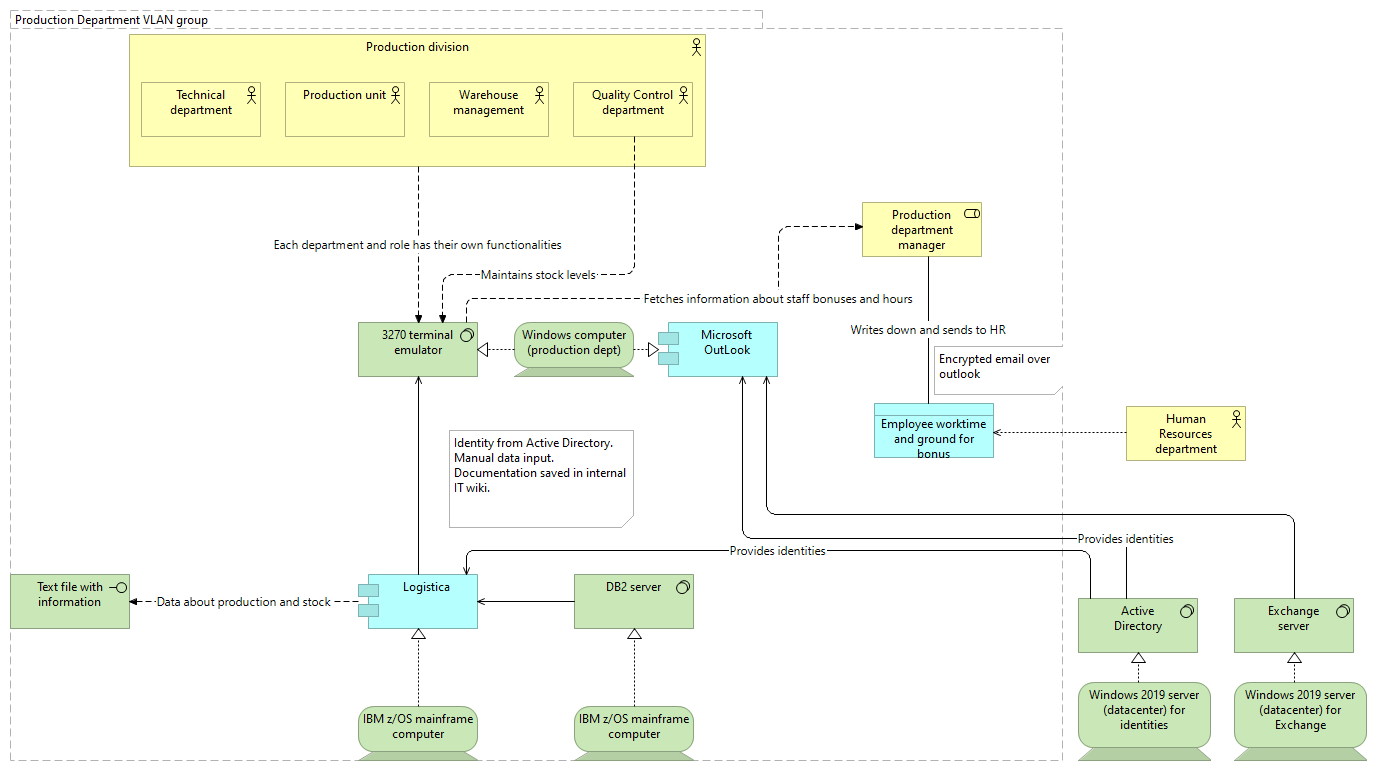
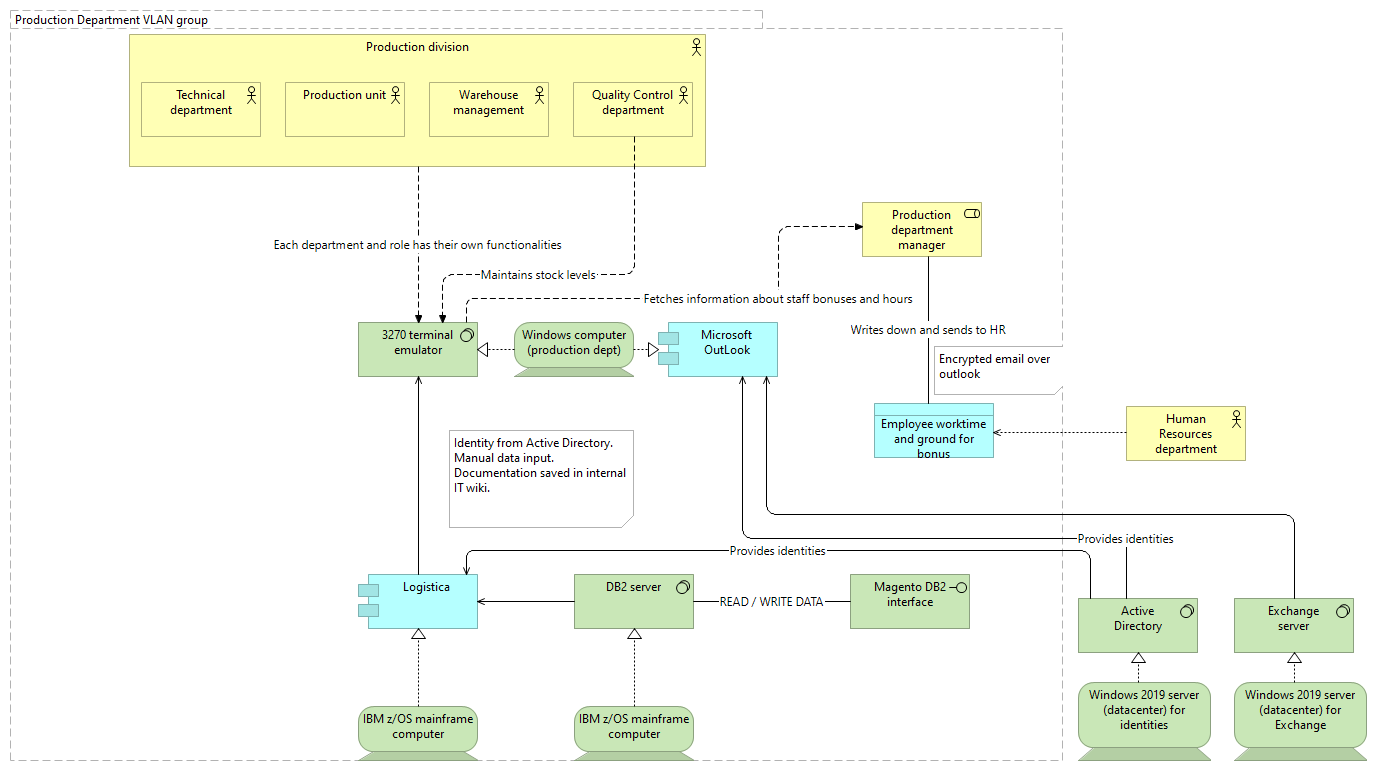
fix in production view

Changed region(s): [[0.0, 0.7471, 0.2498, 0.8405], [0.5309, 0.7471, 0.7182, 0.8405]]

diff --git a/42f59c99-faf0-4d5c-b5a2-6ce0e822152d/elements/model.html b/42f59c99-faf0-4d5c-b5a2-6ce0e822152d/elements/model.html
@@ -908,6 +908,8 @@
 										dataRelationships.push({id:"880ba3f8-e004-42d9-9495-450dc1d8de8c", type:"AssociationRelationship", name:decodeURL(""), documentation:decodeURL(""), sourceid:"33da5b6f-22ff-42f0-9f77-b07a86a58537", targetid:"59ff8b16-c0ab-454f-b24b-004cd41c210a"});
 									dataFoldersContent.push({folderid:"955d4044-8bf8-4ae3-9c84-40e61952b7c3", contentid:"6b01ab1b-19b0-4c0a-895a-7b029ed19157", contenttype:"AssociationRelationship"});
 										dataRelationships.push({id:"6b01ab1b-19b0-4c0a-895a-7b029ed19157", type:"AssociationRelationship", name:decodeURL(""), documentation:decodeURL(""), sourceid:"59ff8b16-c0ab-454f-b24b-004cd41c210a", targetid:"65df45d8-c2ff-49cd-92e1-d349806a058a"});
+									dataFoldersContent.push({folderid:"955d4044-8bf8-4ae3-9c84-40e61952b7c3", contentid:"33df5cbe-fddb-40e4-b108-82902529e3b8", contenttype:"AssociationRelationship"});
+										dataRelationships.push({id:"33df5cbe-fddb-40e4-b108-82902529e3b8", type:"AssociationRelationship", name:decodeURL("READ+%2F+WRITE+DATA"), documentation:decodeURL(""), sourceid:"8a8ed20e-e6ac-4b42-8c3b-9861fd410242", targetid:"fec1fed3-5d73-4d53-8432-c2533d64ecf4"});
 
 								dataFoldersContent.push({folderid:"42f59c99-faf0-4d5c-b5a2-6ce0e822152d", contentid:"4a6e2f0c-0590-4777-98ec-1a9138846fde", contenttype:"Folder"});
 								dataFolders.push({id:"4a6e2f0c-0590-4777-98ec-1a9138846fde", type:"Folder", name:decodeURL("Views"), documentation:decodeURL("")});
@@ -1261,12 +1263,12 @@
 															dataViewsContent.push({viewid:"933c4f14-98d1-495f-aee3-469fe40aac66", contentid:"81432dea-9eab-4f59-862a-13fd391b8e67", contenttype:"DiagramModelArchimateObject"});
 															dataViewsContent.push({viewid:"933c4f14-98d1-495f-aee3-469fe40aac66", contentid:"dcacca14-e508-4ae1-b093-6840698e1ee9", contenttype:"DiagramModelArchimateObject"});
 															dataViewsContent.push({viewid:"933c4f14-98d1-495f-aee3-469fe40aac66", contentid:"dfb4384d-b46d-4941-8d6b-29fcf529cf43", contenttype:"DiagramModelArchimateObject"});
+															dataViewsContent.push({viewid:"933c4f14-98d1-495f-aee3-469fe40aac66", contentid:"f619aa5a-9ad6-4f0f-97a2-aab8c8b5be0b", contenttype:"DiagramModelArchimateObject"});
 													
 													dataViewsContent.push({viewid:"933c4f14-98d1-495f-aee3-469fe40aac66", contentid:"d1d9eaef-0c90-40a5-8732-1cff1408583c", contenttype:"DiagramModelArchimateObject"});
 													dataViewsContent.push({viewid:"933c4f14-98d1-495f-aee3-469fe40aac66", contentid:"23c7f86b-a999-4ec1-aafe-8fbb5d2e7d2e", contenttype:"DiagramModelArchimateObject"});
 													dataViewsContent.push({viewid:"933c4f14-98d1-495f-aee3-469fe40aac66", contentid:"2bb88446-891f-43e0-8e31-bb473af64595", contenttype:"DiagramModelArchimateObject"});
 													dataViewsContent.push({viewid:"933c4f14-98d1-495f-aee3-469fe40aac66", contentid:"a39bd550-de7f-471e-bb26-ad53c332d8c2", contenttype:"DiagramModelArchimateObject"});
-													dataViewsContent.push({viewid:"933c4f14-98d1-495f-aee3-469fe40aac66", contentid:"c91e611d-0750-4afb-8948-b6d13ac7c01d", contenttype:"DiagramModelArchimateObject"});
 													dataViewsContent.push({viewid:"933c4f14-98d1-495f-aee3-469fe40aac66", contentid:"c4cd3ec1-0fd7-4754-9bbd-6a038e0961a9", contenttype:"DiagramModelArchimateObject"});
 															dataViewsContent.push({viewid:"933c4f14-98d1-495f-aee3-469fe40aac66", contentid:"759f46b8-9319-49cb-bf8c-3dd647ff12ae", contenttype:"DiagramModelArchimateObject"});
 															dataViewsContent.push({viewid:"933c4f14-98d1-495f-aee3-469fe40aac66", contentid:"ba2167b4-1092-4502-ad9c-665380835b7e", contenttype:"DiagramModelArchimateObject"});
@@ -1286,8 +1288,9 @@
 
 																					dataViewsContent.push({viewid:"933c4f14-98d1-495f-aee3-469fe40aac66", contentid:"b95069d5-3713-402e-bc4d-68b943fbf7d8", contenttype:"DiagramModelArchimateConnection"});
 
+																					dataViewsContent.push({viewid:"933c4f14-98d1-495f-aee3-469fe40aac66", contentid:"aca26f76-11f1-4ca8-916d-09bc42167e7d", contenttype:"DiagramModelArchimateConnection"});
+
 													
-																			dataViewsContent.push({viewid:"933c4f14-98d1-495f-aee3-469fe40aac66", contentid:"5069ef69-1271-4b74-bb9c-6dd8b099457e", contenttype:"DiagramModelArchimateConnection"});
 																			dataViewsContent.push({viewid:"933c4f14-98d1-495f-aee3-469fe40aac66", contentid:"439bfae1-7ce1-407c-830f-082f1c342d7c", contenttype:"DiagramModelArchimateConnection"});
 
 																			dataViewsContent.push({viewid:"933c4f14-98d1-495f-aee3-469fe40aac66", contentid:"139c39e8-dca7-47d6-999c-605c31f7be90", contenttype:"DiagramModelArchimateConnection"});

diff --git a/42f59c99-faf0-4d5c-b5a2-6ce0e822152d/views/933c4f14-98d1-495f-aee3-469fe40aac66.html b/42f59c99-faf0-4d5c-b5a2-6ce0e822152d/views/933c4f14-98d1-495f-aee3-469fe40aac66.html
@@ -45,11 +45,11 @@
 				  				<area shape="rect" coords="141,82,261,137" href="../elements/de87708c-e261-476f-ab52-29c39c895c99.html"  target="element">
 
 				  		<area shape="rect" coords="129,34,706,167" href="../elements/cf9741a6-217b-4494-a6d0-dfb51b7ac142.html"  target="element">
-				  		<area shape="rect" coords="10,574,130,629" href="../elements/7b6e147d-a620-442b-8e2e-226f2092df3c.html"  target="element">
 				  		<area shape="rect" coords="574,706,694,761" href="../elements/b61f3e89-82e9-4a5b-b3ff-943aa476c632.html"  target="element">
 				  		<area shape="rect" coords="574,574,694,629" href="../elements/fec1fed3-5d73-4d53-8432-c2533d64ecf4.html"  target="element">
 				  		<area shape="rect" coords="358,706,478,761" href="../elements/b61f3e89-82e9-4a5b-b3ff-943aa476c632.html"  target="element">
 				  		<area shape="rect" coords="358,574,478,629" href="../elements/6a1cd121-5fab-48bc-9249-bc2f369f2929.html"  target="element">
+				  				<area shape="rect" coords="850,574,970,629" href="../elements/8a8ed20e-e6ac-4b42-8c3b-9861fd410242.html"  target="element">
 				  				<area shape="rect" coords="658,322,778,377" href="../elements/02bf6fcf-2413-4ed8-b677-9ecd9f20f231.html"  target="element">
 				  				<area shape="rect" coords="358,322,478,377" href="../elements/2eec83e1-87e6-4c99-a75e-e880ffab2379.html"  target="element">
 				  				<area shape="rect" coords="514,322,634,377" href="../elements/6a530d35-0d49-43bd-9401-f6bdb637dd8f.html"  target="element">
@@ -143,6 +143,11 @@
 													    <td> <a href="../elements/02bf6fcf-2413-4ed8-b677-9ecd9f20f231.html" target="element" class="i18n-elementtype-ApplicationComponent"> </a> </td>
 													</tr>
 
+													<tr>
+													    <td> <a href="../elements/8a8ed20e-e6ac-4b42-8c3b-9861fd410242.html" target="element"> Magento DB2 interface </a> </td>
+													    <td> <a href="../elements/8a8ed20e-e6ac-4b42-8c3b-9861fd410242.html" target="element" class="i18n-elementtype-TechnologyInterface"> </a> </td>
+													</tr>
+
 											
 											<tr>
 											    <td> <a href="../elements/6a1cd121-5fab-48bc-9249-bc2f369f2929.html" target="element"> Logistica </a> </td>
@@ -162,11 +167,6 @@
 											<tr>
 											    <td> <a href="../elements/b61f3e89-82e9-4a5b-b3ff-943aa476c632.html" target="element"> IBM z/OS mainframe computer </a> </td>
 											    <td> <a href="../elements/b61f3e89-82e9-4a5b-b3ff-943aa476c632.html" target="element" class="i18n-elementtype-Device"> </a> </td>
-											</tr>
-
-											<tr>
-											    <td> <a href="../elements/7b6e147d-a620-442b-8e2e-226f2092df3c.html" target="element"> Text file with information </a> </td>
-											    <td> <a href="../elements/7b6e147d-a620-442b-8e2e-226f2092df3c.html" target="element" class="i18n-elementtype-TechnologyInterface"> </a> </td>
 											</tr>
 
 											<tr>
@@ -264,13 +264,14 @@
 																				<td> <a href="../elements/2fd25062-9433-4f65-b8ba-7481f6d7f87b.html" target="element"> Production department manager </a> </td>
 																			</tr>
 
+																			<tr>
+																				<td> <a href="../elements/33df5cbe-fddb-40e4-b108-82902529e3b8.html" target="element"> READ / WRITE DATA </a> </td>
+																				<td> <a href="../elements/33df5cbe-fddb-40e4-b108-82902529e3b8.html" target="element" class="i18n-elementtype-AssociationRelationship"></a> </td>
+																				<td> <a href="../elements/8a8ed20e-e6ac-4b42-8c3b-9861fd410242.html" target="element"> Magento DB2 interface </a> </td>
+																				<td> <a href="../elements/fec1fed3-5d73-4d53-8432-c2533d64ecf4.html" target="element"> DB2 server </a> </td>
+																			</tr>
+
 											
-																	<tr>
-																		<td> <a href="../elements/70a8da59-90cb-4273-ac00-f94adc5f2206.html" target="element"> Data about production and stock </a> </td>
-																		<td> <a href="../elements/70a8da59-90cb-4273-ac00-f94adc5f2206.html" target="element" class="i18n-elementtype-FlowRelationship"></a> </td>
-																		<td> <a href="../elements/6a1cd121-5fab-48bc-9249-bc2f369f2929.html" target="element"> Logistica </a> </td>
-																		<td> <a href="../elements/7b6e147d-a620-442b-8e2e-226f2092df3c.html" target="element"> Text file with information </a> </td>
-																	</tr>
 																	<tr>
 																		<td> <a href="../elements/91a91bc4-49b6-42c4-b1b0-3dc6eda0a4ee.html" target="element">  </a> </td>
 																		<td> <a href="../elements/91a91bc4-49b6-42c4-b1b0-3dc6eda0a4ee.html" target="element" class="i18n-elementtype-ServingRelationship"></a> </td>

diff --git a/42f59c99-faf0-4d5c-b5a2-6ce0e822152d/elements/33df5cbe-fddb-40e4-b108-82902529e3b8.html b/42f59c99-faf0-4d5c-b5a2-6ce0e822152d/elements/33df5cbe-fddb-40e4-b108-82902529e3b8.html
@@ -1,0 +1,80 @@
+<!DOCTYPE HTML PUBLIC "-//W3C//DTD HTML 4.01 Transitional//EN" "http://www.w3.org/TR/html4/loose.dtd">
+<html class="frame" lang="en">
+<head>
+	<meta http-equiv="Content-Type" content="text/html;charset=utf-8">
+	<title>READ / WRITE DATA</title>
+
+	<!-- JQUERY (use 1.x branch to be compatible with IE 6/7/8) -->
+	<script type="text/javascript" src="../../lib/jquery/js/jquery-1.11.2.min.js"></script>
+	<!-- BOOTSTRAP -->
+	<link type="text/css" rel="stylesheet" href="../../lib/bootstrap/css/bootstrap-3.3.2.min.css">
+	<link type="text/css" rel="stylesheet" href="../../lib/bootstrap/css/bootstrap-theme-3.3.2.min.css">
+	<script type="text/javascript" src="../../lib/bootstrap/js/bootstrap-3.3.2.min.js"></script>
+	<!-- REPORT SPECIFIC -->
+	<link type="text/css" rel="stylesheet" href="../../css/model.css">
+	<link type="text/css" rel="stylesheet" href="../../css/i18n.css">
+	<script type="text/javascript" src="../../js/frame.js"></script>
+	<script type="text/javascript" src="../../js/imageMapResizer.min.js"></script>
+</head>
+
+<body>
+	<div class="panel panel-default root-panel">
+
+		<div class="panel-heading root-panel-heading">
+            <!-- Name -->
+               <b>READ / WRITE DATA</b>
+
+            <!-- If a View with Viewpoint -->
+			   (<span class="i18n-elementtype-AssociationRelationship"></span>)
+			   <a class="glyphicon glyphicon-info-sign" id="hint-AssociationRelationship" target="hint"></a>
+		</div>
+
+		<div class="panel-body root-panel-body">
+		    <!-- If this is a digram model (has children and no bounds) show the image -->
+
+			<div role="tabpanel">
+				<!-- Nav tabs -->
+				<ul class="nav nav-tabs" role="tablist">
+                    <!-- Purpose / Documentation / Content -->
+					   <li role="presentation" class="active"><a href="#documentation" aria-controls="documentation" role="tab" data-toggle="tab" class="i18n-documentation"></a></li>
+
+                    <!-- Properties -->
+                    <li role="presentation"><a href="#properties" aria-controls="properties" role="tab" data-toggle="tab" class="i18n-properties"></a></li>
+
+				</ul>
+
+				<!-- Tab panes -->
+				<div class="tab-content">
+					<div role="tabpanel" class="tab-pane active" id="documentation">
+							<br>
+							<b class="i18n-relation-source"></b>
+								<a href="../elements/8a8ed20e-e6ac-4b42-8c3b-9861fd410242.html" target="element">
+									Magento DB2 interface
+								</a> <br>
+							<b class="i18n-relation-target"></b>
+								<a href="../elements/fec1fed3-5d73-4d53-8432-c2533d64ecf4.html" target="element">
+									DB2 server
+								</a> <br>
+							<br>
+						<textarea id="docsrc" style="display:none"></textarea>
+						<div id="doctgt" style="white-space:pre-wrap"></div>
+					</div>
+					<div role="tabpanel" class="tab-pane" id="properties">
+						<table class="table table-striped table-hover table-condensed">
+							<thead>
+								<tr>
+									<th class="i18n-key"></th>
+									<th class="i18n-value"></th>
+								</tr>
+							</thead>
+							<tbody>
+							</tbody>
+						</table>
+					</div>
+			  </div>
+			</div>
+		</div>
+	</div>
+	<script type="text/javascript">imageMapResize();</script>
+</body>
+</html>

diff --git a/index.html b/index.html
@@ -1159,6 +1159,10 @@
 															<span class="i18n-elementtype-AssociationRelationship"></span>
 														(Firewall &amp; Router &amp; IDS - Datacenter replica) 
 													</a></li>
+													<li class="tree-element"><a href="42f59c99-faf0-4d5c-b5a2-6ce0e822152d/elements/33df5cbe-fddb-40e4-b108-82902529e3b8.html" target="element">
+															READ / WRITE DATA
+														(Magento DB2 interface - DB2 server) 
+													</a></li>
 
 									</ul>
 								</li>
